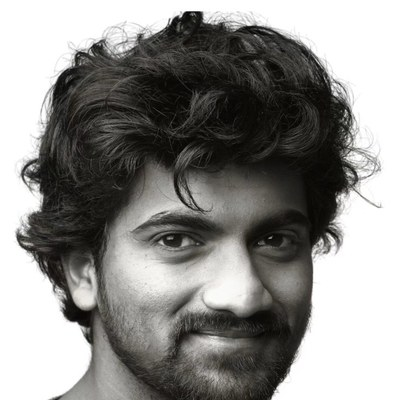
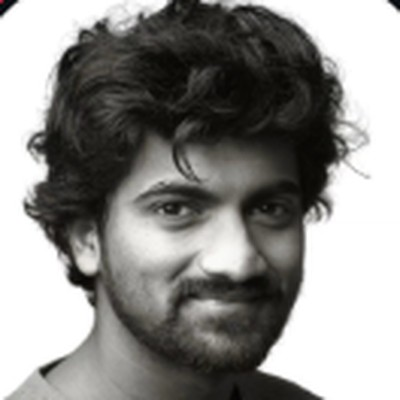
Testimonials: proper profile photos and Instagram links
Claude-Session: https://claude.ai/code/session_01VCw5KadqnxUyVE4RyBgq6Y

diff --git a/r.js b/r.js
@@ -50,7 +50,7 @@ var h='<nav><div class="nav-in"><a class="logo" href="#top"><i></i>WorthyOps</a>
 +'<div class="three"><div class="panel s"><h3>Strengths</h3><ul>'+ul(L.strengths)+'</ul></div><div class="panel b"><h3>Bottlenecks</h3><ul>'+ul(L.bottlenecks)+'</ul></div><div class="panel r"><h3>Highest ROI</h3><ul>'+ul(L.roi)+'</ul></div></div></section>'
 +'<section id="upside"><div class="sec-h"><span class="eyebrow">The upside</span><h2>What fixing this could be worth</h2></div>'+up+'</section>'
 +'<section id="who"><div class="sec-h"><span class="eyebrow">Who we are</span><h2>WorthyOps</h2><p>We help coaches and creators scale revenue with the systems behind the content.</p></div><blockquote class="quote" style="margin-inline:auto">Views are easy to count. <span>Clients</span> are what matter. We build the path that takes a stranger from your post to a booked conversation, and we track it.</blockquote><div class="build"><div class="panel"><span class="eyebrow">Build</span><h3>Content system</h3><p>A repeatable mix of reach, authority and proof posts, each with one next step.</p></div><div class="panel"><span class="eyebrow">Build</span><h3>DM flow</h3><p>A keyword-to-conversation path so interested people always get a reply.</p></div><div class="panel"><span class="eyebrow">Build</span><h3>Sales infrastructure</h3><p>A profile, link and application path that gives visitors one clear step.</p></div><div class="panel"><span class="eyebrow">Build</span><h3>Performance tracking</h3><p>KPIs that show what turns into calls and clients, so decisions use numbers.</p></div></div></section>'
-+'<section id="results"><div class="sec-h"><span class="eyebrow">Client results</span><h2>What it looked like for others</h2><p>Three coaches we have worked with. Results are specific to each client and are not a promise.</p></div><div class="tgrid"><div class="tcard"><div class="tph" aria-hidden="true"><img src="/img/testimonials/jaswantth-kattungaa.jpg" alt="" onerror="this.remove()"></div><div class="tname"><b>Jaswantth Kattungaa</b><span>Fitness &amp; mindset creator</span></div><div class="stars" role="img" aria-label="4 out of 5 stars"><i class="on"></i><i class="on"></i><i class="on"></i><i class="on"></i><i></i></div><div class="tres"><b>4x</b><span>revenue in 21 days</span></div></div><div class="tcard"><div class="tph" aria-hidden="true"><img src="/img/testimonials/aditya-singh.jpg" alt="" onerror="this.remove()"></div><div class="tname"><b>Aditya Singh</b><span>Fitness coach &middot; @adityasinghfitness</span></div><div class="stars" role="img" aria-label="4 out of 5 stars"><i class="on"></i><i class="on"></i><i class="on"></i><i class="on"></i><i></i></div><div class="tres"><b>5x</b><span>revenue in 30 days</span></div></div><div class="tcard"><div class="tph" aria-hidden="true"><img src="/img/testimonials/shiva-molleti.jpg" alt="" onerror="this.remove()"></div><div class="tname"><b>Shiva Molleti</b><span>Performance coach</span></div><div class="stars" role="img" aria-label="4 out of 5 stars"><i class="on"></i><i class="on"></i><i class="on"></i><i class="on"></i><i></i></div><div class="tres"><b>2x</b><span>revenue in 14 days</span></div><p class="tnote">Still working together</p></div></div></section>'
++'<section id="results"><div class="sec-h"><span class="eyebrow">Client results</span><h2>What it looked like for others</h2><p>Three coaches we have worked with. Results are specific to each client and are not a promise.</p></div><div class="tgrid"><div class="tcard"><div class="tph" aria-hidden="true"><img src="/img/testimonials/jaswantth-kattungaa.jpg" alt="" onerror="this.remove()"></div><div class="tname"><b>Jaswantth Kattungaa</b><a class="tig" href="https://www.instagram.com/jaswantth_kattungaa/?hl=en" target="_blank" rel="noopener">@jaswantth_kattungaa</a><span>Fitness &amp; mindset creator</span></div><div class="stars" role="img" aria-label="4 out of 5 stars"><i class="on"></i><i class="on"></i><i class="on"></i><i class="on"></i><i></i></div><div class="tres"><b>4x</b><span>revenue in 21 days</span></div></div><div class="tcard"><div class="tph" aria-hidden="true"><img src="/img/testimonials/aditya-singh.jpg" alt="" onerror="this.remove()"></div><div class="tname"><b>Aditya Singh</b><a class="tig" href="https://www.instagram.com/adityasinghfitness/?hl=en" target="_blank" rel="noopener">@adityasinghfitness</a><span>Fitness coach</span></div><div class="stars" role="img" aria-label="4 out of 5 stars"><i class="on"></i><i class="on"></i><i class="on"></i><i class="on"></i><i></i></div><div class="tres"><b>5x</b><span>revenue in 30 days</span></div></div><div class="tcard"><div class="tph" aria-hidden="true"><img src="/img/testimonials/shiva-molleti.jpg" alt="" onerror="this.remove()"></div><div class="tname"><b>Shiva Molleti</b><a class="tig" href="https://www.instagram.com/shivmolleti/?hl=en" target="_blank" rel="noopener">@shivmolleti</a><span>Performance coach</span></div><div class="stars" role="img" aria-label="4 out of 5 stars"><i class="on"></i><i class="on"></i><i class="on"></i><i class="on"></i><i></i></div><div class="tres"><b>2x</b><span>revenue in 14 days</span></div><p class="tnote">Still working together</p></div></div></section>'
 +'<section id="process"><div class="sec-h"><span class="eyebrow">Process</span><h2>How we would start</h2></div><ol class="proc"><li class="now"><span class="eyebrow">Pilot</span><h3>This audit</h3><p>You see exactly what we found on your public profile.</p></li><li><span class="eyebrow">Step 2</span><h3>Fix the front door</h3><p>One main link, a clear bio line and a Start Here highlight.</p></li><li><span class="eyebrow">Step 3</span><h3>Content and DM flow</h3><p>A post mix with one action per post, and a DM path behind it.</p></li><li><span class="eyebrow">Step 4</span><h3>Track and improve</h3><p>Measure conversations and calls, then double down on what works.</p></li></ol></section>'
 +'<section id="partnership"><div class="cta">'+av('av big')+'<span class="eyebrow">Partnership</span><h2 style="margin-top:10px">Let&rsquo;s fix the path, '+fn+'</h2><p>We work on a setup fee plus a share of the revenue we help create, so we only do well when you do. If this audit made sense, reply to my message and we&rsquo;ll go through it together.</p><div class="acts"><a class="btn" href="https://calendly.com/likhithsiddhartha30/discovery-call" target="_blank" rel="noopener">Book a call</a><a class="btn ghost" href="#audit">Review the audit again</a></div><span class="h">Instagram: @likhithgrowz</span></div></section>'
 +'<footer><span><b>WorthyOps Growth Audit</b> &middot; Prepared for '+nm+' by Likhith, WorthyOps</span><span>Based on the public Instagram profile @'+hd+', reviewed Oct 2026, with engagement figures from Social Blade ('+PD+'). Revenue figures are rough estimates from stated assumptions.</span></footer></main>';

diff --git a/jayme-shiarla-58f125/index.html b/jayme-shiarla-58f125/index.html
@@ -275,7 +275,7 @@
       <div class="panel"><span class="eyebrow">Build</span><h3>Performance tracking</h3><p>KPIs that show what turns into calls and clients, so decisions use numbers.</p></div>
     </div>
   </section>
-  <section id="results"><div class="sec-h"><span class="eyebrow">Client results</span><h2>What it looked like for others</h2><p>Three coaches we have worked with. Results are specific to each client and are not a promise.</p></div><div class="tgrid"><div class="tcard"><div class="tph" aria-hidden="true"><img src="/img/testimonials/jaswantth-kattungaa.jpg" alt="" onerror="this.remove()"></div><div class="tname"><b>Jaswantth Kattungaa</b><span>Fitness &amp; mindset creator</span></div><div class="stars" role="img" aria-label="4 out of 5 stars"><i class="on"></i><i class="on"></i><i class="on"></i><i class="on"></i><i></i></div><div class="tres"><b>4x</b><span>revenue in 21 days</span></div></div><div class="tcard"><div class="tph" aria-hidden="true"><img src="/img/testimonials/aditya-singh.jpg" alt="" onerror="this.remove()"></div><div class="tname"><b>Aditya Singh</b><span>Fitness coach &middot; @adityasinghfitness</span></div><div class="stars" role="img" aria-label="4 out of 5 stars"><i class="on"></i><i class="on"></i><i class="on"></i><i class="on"></i><i></i></div><div class="tres"><b>5x</b><span>revenue in 30 days</span></div></div><div class="tcard"><div class="tph" aria-hidden="true"><img src="/img/testimonials/shiva-molleti.jpg" alt="" onerror="this.remove()"></div><div class="tname"><b>Shiva Molleti</b><span>Performance coach</span></div><div class="stars" role="img" aria-label="4 out of 5 stars"><i class="on"></i><i class="on"></i><i class="on"></i><i class="on"></i><i></i></div><div class="tres"><b>2x</b><span>revenue in 14 days</span></div><p class="tnote">Still working together</p></div></div></section><section id="process">
+  <section id="results"><div class="sec-h"><span class="eyebrow">Client results</span><h2>What it looked like for others</h2><p>Three coaches we have worked with. Results are specific to each client and are not a promise.</p></div><div class="tgrid"><div class="tcard"><div class="tph" aria-hidden="true"><img src="/img/testimonials/jaswantth-kattungaa.jpg" alt="" onerror="this.remove()"></div><div class="tname"><b>Jaswantth Kattungaa</b><a class="tig" href="https://www.instagram.com/jaswantth_kattungaa/?hl=en" target="_blank" rel="noopener">@jaswantth_kattungaa</a><span>Fitness &amp; mindset creator</span></div><div class="stars" role="img" aria-label="4 out of 5 stars"><i class="on"></i><i class="on"></i><i class="on"></i><i class="on"></i><i></i></div><div class="tres"><b>4x</b><span>revenue in 21 days</span></div></div><div class="tcard"><div class="tph" aria-hidden="true"><img src="/img/testimonials/aditya-singh.jpg" alt="" onerror="this.remove()"></div><div class="tname"><b>Aditya Singh</b><a class="tig" href="https://www.instagram.com/adityasinghfitness/?hl=en" target="_blank" rel="noopener">@adityasinghfitness</a><span>Fitness coach</span></div><div class="stars" role="img" aria-label="4 out of 5 stars"><i class="on"></i><i class="on"></i><i class="on"></i><i class="on"></i><i></i></div><div class="tres"><b>5x</b><span>revenue in 30 days</span></div></div><div class="tcard"><div class="tph" aria-hidden="true"><img src="/img/testimonials/shiva-molleti.jpg" alt="" onerror="this.remove()"></div><div class="tname"><b>Shiva Molleti</b><a class="tig" href="https://www.instagram.com/shivmolleti/?hl=en" target="_blank" rel="noopener">@shivmolleti</a><span>Performance coach</span></div><div class="stars" role="img" aria-label="4 out of 5 stars"><i class="on"></i><i class="on"></i><i class="on"></i><i class="on"></i><i></i></div><div class="tres"><b>2x</b><span>revenue in 14 days</span></div><p class="tnote">Still working together</p></div></div></section><section id="process">
     <div class="sec-h">
       <span class="eyebrow">Process</span>
       <h2>How we would start</h2>

diff --git a/s.css b/s.css
@@ -92,3 +92,6 @@ mark.five{background:rgba(255,255,255,.08);outline:1px dashed rgba(255,255,255,.
 .tres span{font-size:14px;color:var(--fg)}
 .tnote{margin:0;font-family:var(--mono);font-size:11px;letter-spacing:.1em;text-transform:uppercase;color:var(--faint)}
 @media (max-width:860px){.tgrid{grid-template-columns:1fr}}
+
+.tname .tig{display:inline-block;margin-top:4px;font-family:var(--mono,"JetBrains Mono",monospace);font-size:12px;color:var(--accent,#3d8bff);text-decoration:none}
+.tname .tig:hover{text-decoration:underline}
